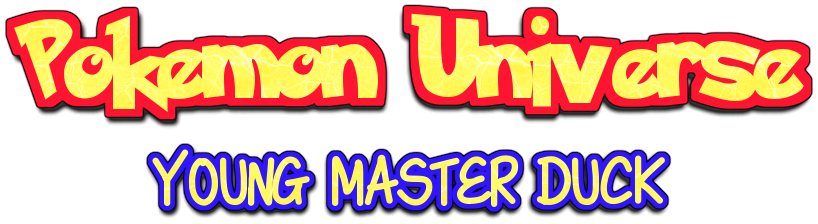
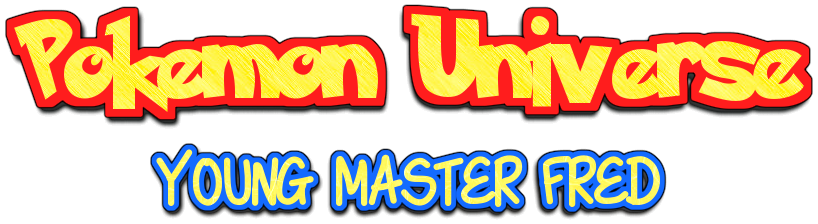
changed to a pokeon font + styling

diff --git a/main.css b/main.css
@@ -41,7 +41,6 @@ img {
 /************************ Styling for the Modal*****************/
 
 .modal-body {
-  background-position: 25%;
   color: white;
   height: 300px;
   border-radius: 10px;
@@ -51,36 +50,43 @@ img {
 #pokeHp {
   border-radius: 5px;
   background-color: rgba(173, 32, 1, 0.78);
+  font-family: VT323;
   margin-left: 0px;
-  margin-top: 50px;
-  font-size: 20px;
+  margin-top: 25px;
+  font-size: 22.5px;
 }
 #pokeAtk {
   border-radius: 5px;
   background-color: rgba(41, 205, 7, 0.96);
+  font-family: VT323;
   margin-left: 0px;
-  font-size: 20px;
+  font-size: 22.5px;
 }
 #pokeDef {
   border-radius: 5px;
   background-color: rgba(34, 73, 173, 0.84);
+  font-family: VT323;
   margin-left: 0px;
-  font-size: 20px;
+  font-size: 22.5px;
 }
 #pokeAbil1 {
   border-radius: 5px;
   background-color: rgba(181, 210, 9, 1);
+  font-family: VT323;
+  font-size:;
   margin-left: 0px;
-  font-size: 20px;
+  font-size: 22.5px;
 }
 
 #pokeName {
-  font-size: -webkit-xxx-large;
-  color: rgb(195, 4, 4);
+  font-size: 75px;
+  color: rgba(252, 221, 14, 0.73);
+  font-family: VT323;
   border-radius: 5px;
   margin-left: 52px;
   text-align: center;
   box-shadow: 7px 5px 5px rgb(62, 61, 61);
+  text-shadow: 2px 2px 4px #000000;
 
 }
 
@@ -90,5 +96,5 @@ img {
   margin-left: 218px;
   margin-top: -50px;
   opacity: .95;
-  z-index: 1;
+  z-index: .8;
 }

diff --git a/main.js b/main.js
@@ -26,7 +26,7 @@ class Trainer {
    }
 }
 
-let trainer = new Trainer ('Young Master Duck');
+let trainer = new Trainer ('Young Master Fred');
 
 //Defining pokemon class
 
@@ -59,7 +59,7 @@ function getPichu() {
            abil2: data.abilities[1].ability.name,
              img: "https://assets.pokemon.com/assets/cms2/img/pokedex/full/172.png"
         }
-        // console.log(poke);
+        console.log(poke);
         allPokemon.push(poke);
         printToDom(poke);
 
@@ -86,7 +86,7 @@ function getLugia() {
            abil2: data.abilities[1].ability.name,
              img: "https://cdn.bulbagarden.net/upload/4/44/249Lugia.png"
         }
-        // console.log(poke);
+        console.log(poke);
         allPokemon.push(poke);
         printToDom(poke);
 

diff --git a/pokedex.html b/pokedex.html
@@ -6,7 +6,7 @@
   <title>Pokedex</title>
   <link rel="stylesheet" href="main.css">
   <link rel="stylesheet" href="https://stackpath.bootstrapcdn.com/bootstrap/4.1.3/css/bootstrap.min.css" integrity="sha384-MCw98/SFnGE8fJT3GXwEOngsV7Zt27NXFoaoApmYm81iuXoPkFOJwJ8ERdknLPMO" crossorigin="anonymous">
-
+  <link href='https://fonts.googleapis.com/css?family=VT323' rel='stylesheet'>
 </head>
 <body>
 
@@ -53,7 +53,7 @@
         <div class="col-lg-6 offset-sm-1" id='pokeHp'></div>
         <div class="col-lg-7 offset-sm-3" id='pokeAtk'></div>
         <div class="col-lg-6 offset-sm-3" id='pokeDef'></div>
-        <div class="col-lg-9 offset-sm-1" id='pokeAbil1'></div>
+        <div class="col-lg-11 offset-sm-1" id='pokeAbil1'></div>
 
       </div>
     </div>

diff --git a/input.scss b/input.scss
@@ -1,4 +1,20 @@
-$font-size: 20px;
+$transition-duration: .7s;
+$transform: scale(1.2, 1.2);
+$primary-border-radius: 5px;
+$secondary-border-radius: 20px;
+$primary-z-index: 1;
+
+//Background colors
+$HP-Color: rgba(173, 32, 1, 0.78);
+$Atk-Color: rgba(41, 205, 7, 0.96);
+$Def-Color: rgba(34, 73, 173, 0.84);
+$Abil-Color: rgba(181, 210, 9, 1);
+
+
+//Font group
+$primary-font-size: 20px;
+$body-font-color: white;
+$pkname-font-color: rgb(195, 4, 4);
 
 
 
